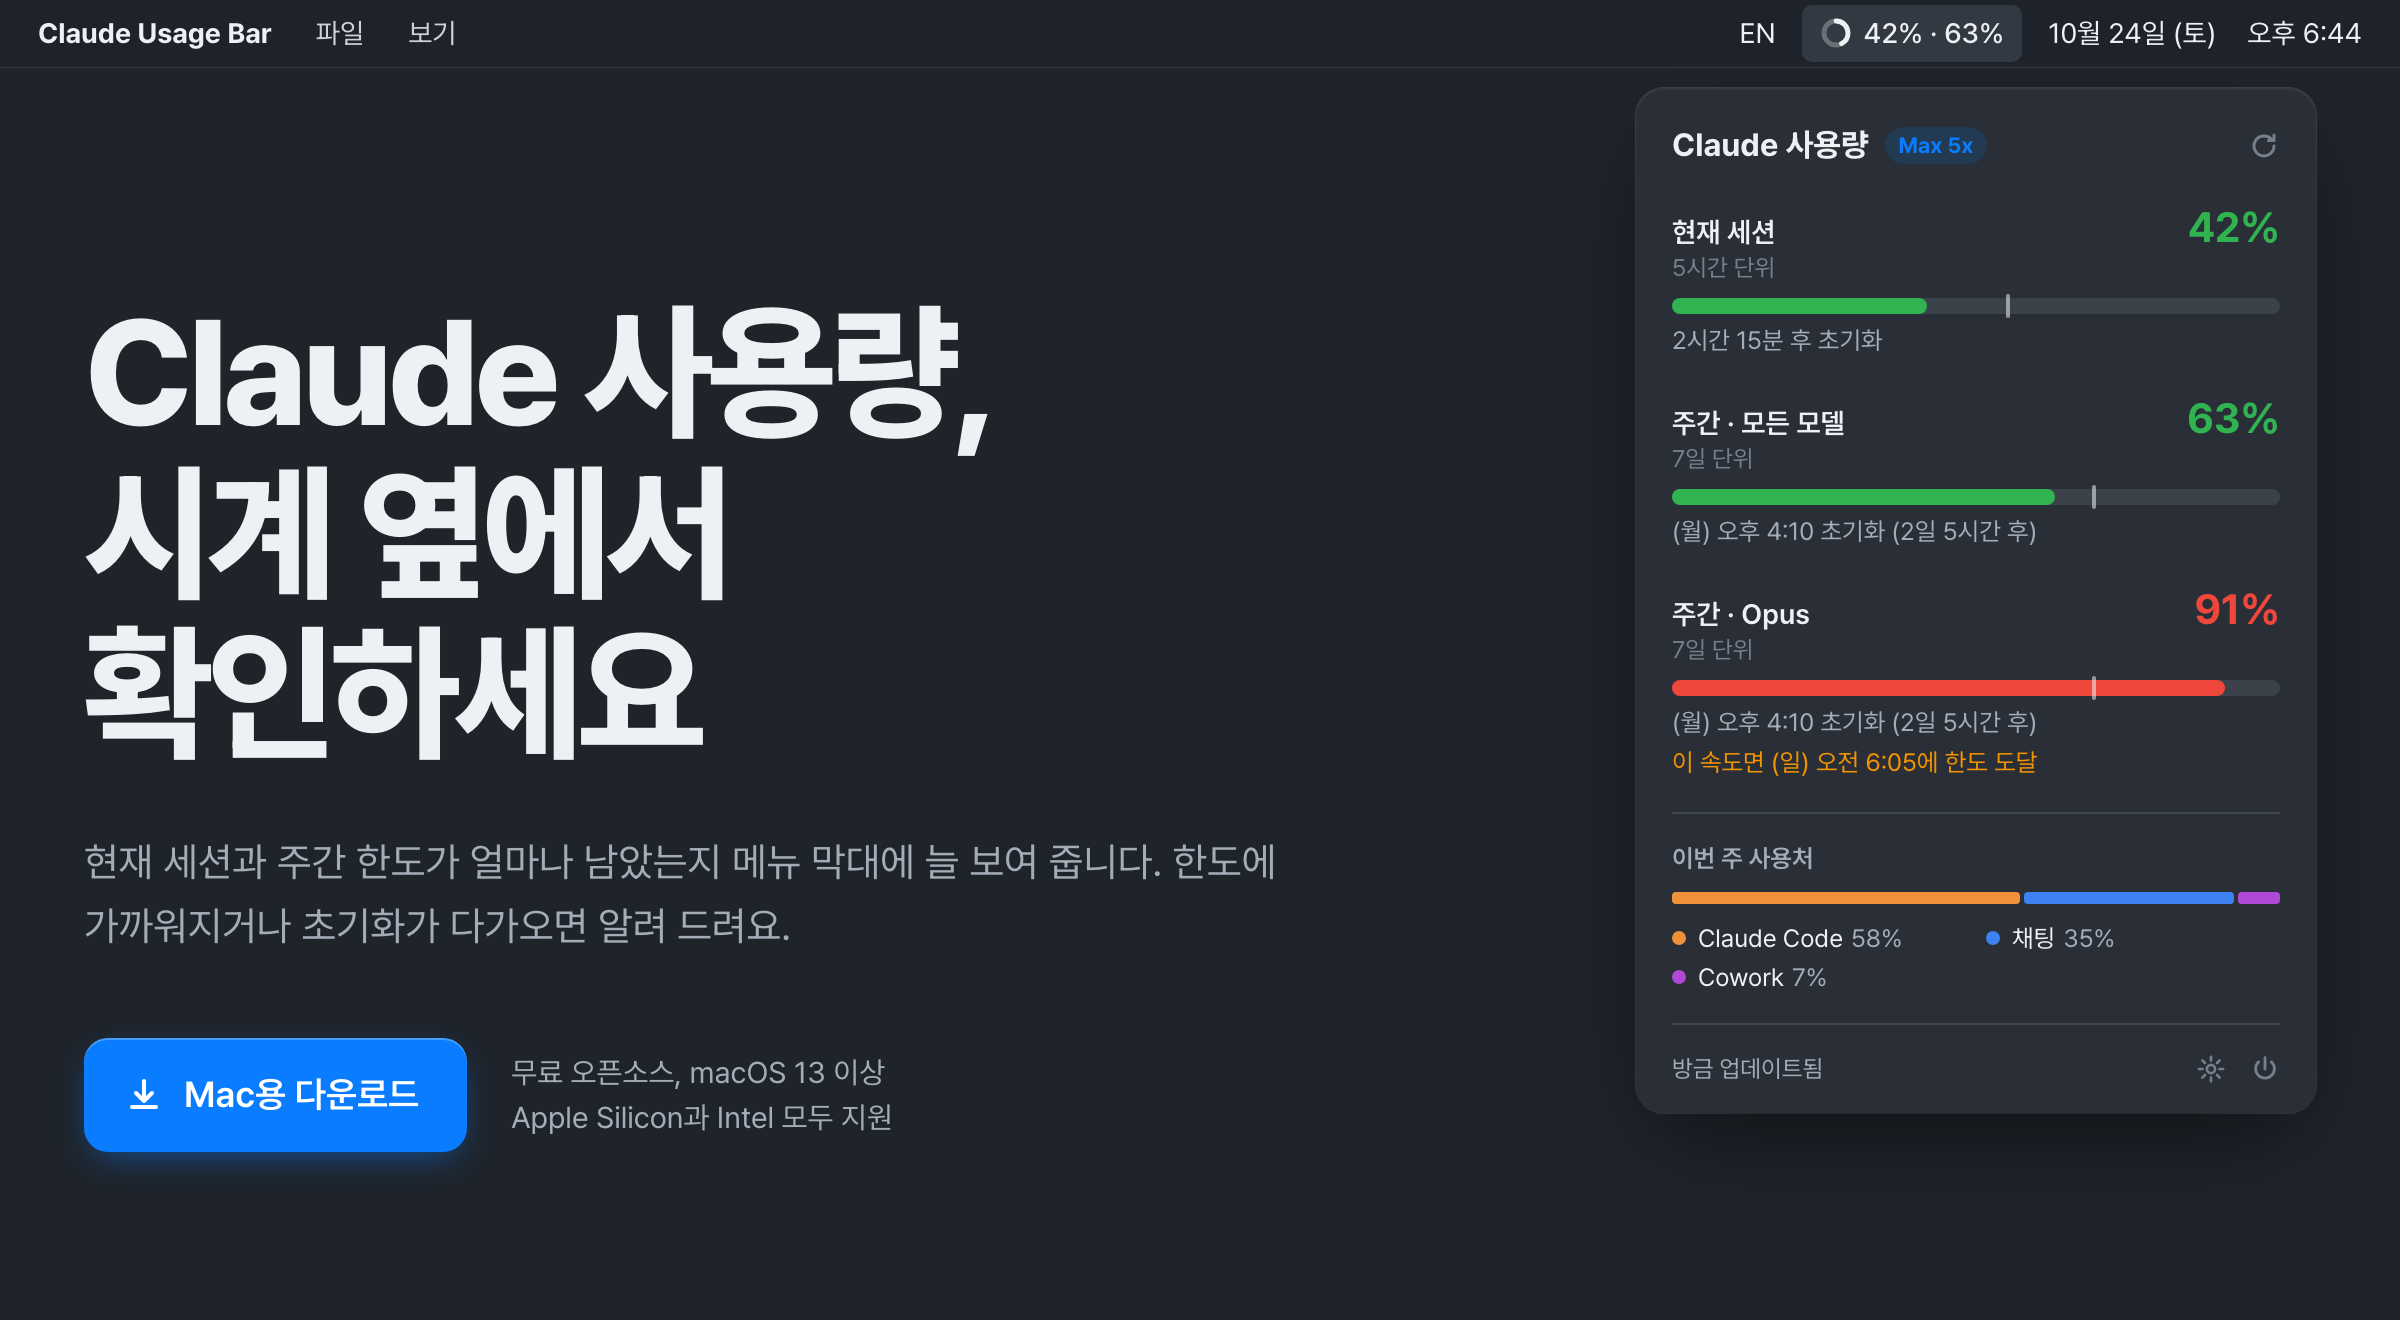
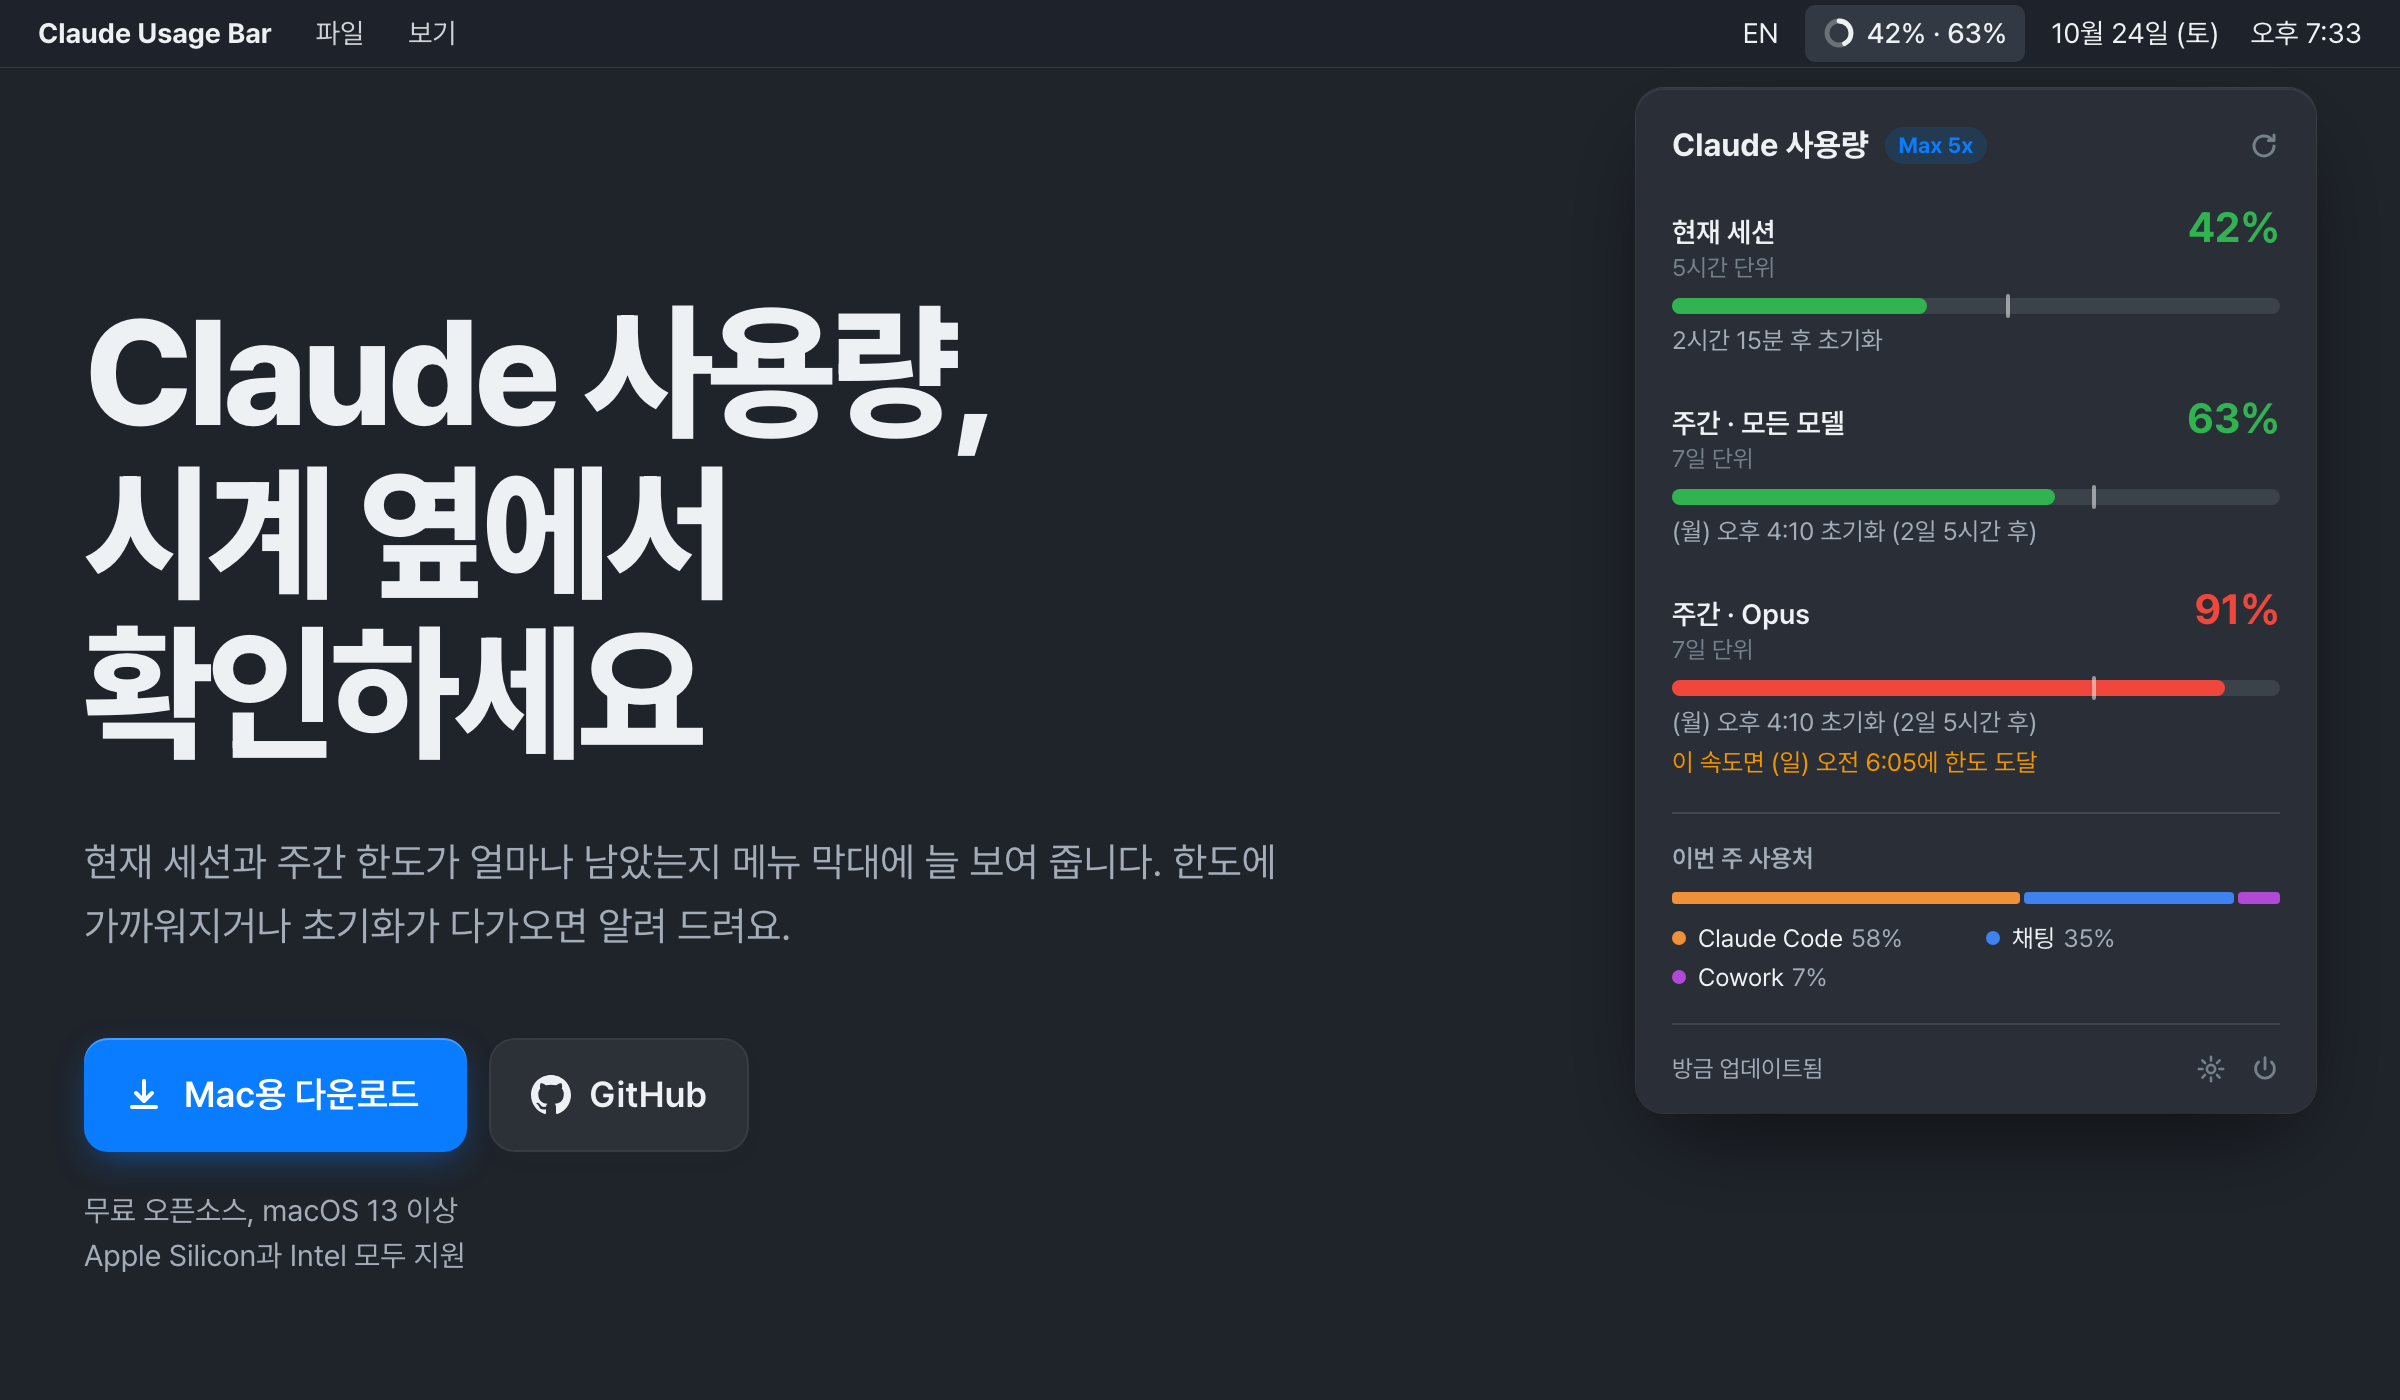
Add notification sound setting and GitHub button on the website

diff --git a/site/index.html b/site/index.html
@@ -354,7 +354,8 @@ html[data-lang="en"] [data-l="ko"] { display: none !important; }
   max-width: 34em;
   word-break: keep-all;
 }
-.actions { margin-top: 40px; display: flex; flex-wrap: wrap; align-items: center; gap: 14px 22px; }
+.actions { margin-top: 40px; display: flex; flex-wrap: wrap; align-items: center; gap: 14px 12px; }
+.actions .meta { flex-basis: 100%; margin-top: 4px; }
 .download {
   display: inline-flex; align-items: center; gap: 10px;
   background: var(--blue); color: #fff; text-decoration: none;
@@ -364,6 +365,17 @@ html[data-lang="en"] [data-l="ko"] { display: none !important; }
   transition: background-color .15s;
 }
 .download:hover { background: var(--blue-press); }
+.github {
+  display: inline-flex; align-items: center; gap: 9px;
+  color: var(--ink); text-decoration: none;
+  font-weight: 600; font-size: 18px;
+  padding: 13px 20px; border-radius: 12px;
+  background: var(--panel-solid);
+  box-shadow: 0 0 0 1px var(--line), 0 4px 12px -6px rgba(31, 45, 61, .25);
+  transition: background-color .15s;
+}
+.github:hover { background: var(--desk); }
+.github svg { width: 20px; height: 20px; }
 .download svg { width: 20px; height: 20px; }
 .meta { color: var(--muted); font-size: 15px; line-height: 1.5; }
 .meta a { color: var(--muted); }
@@ -571,6 +583,10 @@ footer .grow { flex: 1; min-width: 240px; }
       <a class="download" id="download" href="https://github.com/eocnd36/ClaudeUsageBar/releases/latest/download/ClaudeUsageBar.zip">
         <svg aria-hidden="true"><use href="#download"/></svg>
         <span data-l="ko">Mac용 다운로드</span><span data-l="en">Download for Mac</span>
+      </a>
+      <a class="github" href="https://github.com/eocnd36/ClaudeUsageBar">
+        <svg aria-hidden="true" viewBox="0 0 16 16"><path fill="currentColor" d="M8 0C3.58 0 0 3.58 0 8c0 3.54 2.29 6.53 5.47 7.59.4.07.55-.17.55-.38 0-.19-.01-.82-.01-1.49-2.01.37-2.53-.49-2.69-.94-.09-.23-.48-.94-.82-1.13-.28-.15-.68-.52-.01-.53.63-.01 1.08.58 1.23.82.72 1.21 1.87.87 2.33.66.07-.52.28-.87.51-1.07-1.78-.2-3.64-.89-3.64-3.95 0-.87.31-1.59.82-2.15-.08-.2-.36-1.02.08-2.12 0 0 .67-.21 2.2.82.64-.18 1.32-.27 2-.27.68 0 1.36.09 2 .27 1.53-1.04 2.2-.82 2.2-.82.44 1.1.16 1.92.08 2.12.51.56.82 1.27.82 2.15 0 3.07-1.87 3.75-3.65 3.95.29.25.54.73.54 1.48 0 1.07-.01 1.93-.01 2.2 0 .21.15.46.55.38A8.013 8.013 0 0 0 16 8c0-4.42-3.58-8-8-8z"/></svg>
+        GitHub
       </a>
       <div class="meta">
         <span data-l="ko"><span class="version"></span>무료 오픈소스, macOS 13 이상<br>Apple Silicon과 Intel 모두 지원</span>

diff --git a/Sources/ClaudeUsageBar/SettingsView.swift b/Sources/ClaudeUsageBar/SettingsView.swift
@@ -16,6 +16,7 @@ struct SettingsView: View {
     @AppStorage(AppSettings.notifyOnReset) private var notifyOnReset = false
     @AppStorage(AppSettings.resetReminderMinimumPercent) private var minimumPercent = 50
     @AppStorage(AppSettings.statusAlertsEnabled) private var statusAlertsEnabled = true
+    @AppStorage(AppSettings.notificationSound) private var notificationSound = true
     @State private var launchAtLogin = LoginItem.isEnabled
     @State private var loginItemError: String?
     @State private var language = AppLanguage.override ?? ""
@@ -169,6 +170,8 @@ struct SettingsView: View {
             }
 
             Toggle("Alert me when Claude has an outage", isOn: $statusAlertsEnabled)
+
+            Toggle("Play a sound with notifications", isOn: $notificationSound)
 
             Button {
                 Notifier.requestAuthorization()

diff --git a/Sources/ClaudeUsageBar/AppSettings.swift b/Sources/ClaudeUsageBar/AppSettings.swift
@@ -17,6 +17,8 @@ enum AppSettings {
     static let resetReminderMinimumPercent = "resetReminderMinimumPercent"
     /// Claude 장애 알림
     static let statusAlertsEnabled = "statusAlertsEnabled"
+    /// 알림과 함께 소리를 낼지
+    static let notificationSound = "notificationSound"
 
     static let refreshOptions = [1, 2, 5, 10, 15, 30]
     static let maxAlertThresholds = 5
@@ -36,6 +38,7 @@ enum AppSettings {
             notifyOnReset: false,
             resetReminderMinimumPercent: 50,
             statusAlertsEnabled: true,
+            notificationSound: true,
         ])
         // 1.0.0에서는 "0분 전"이 꺼짐을 뜻했습니다.
         if defaults.object(forKey: resetReminderMinutes) != nil, defaults.integer(forKey: resetReminderMinutes) == 0 {

diff --git a/Sources/ClaudeUsageBar/Notifier.swift b/Sources/ClaudeUsageBar/Notifier.swift
@@ -70,7 +70,7 @@ enum Notifier {
         let content = UNMutableNotificationContent()
         content.title = title
         content.body = body
-        content.sound = .default
+        content.sound = UserDefaults.standard.bool(forKey: AppSettings.notificationSound) ? .default : nil
         let request = UNNotificationRequest(identifier: identifier, content: content, trigger: trigger)
         UNUserNotificationCenter.current().add(request) { error in
             if let error {
